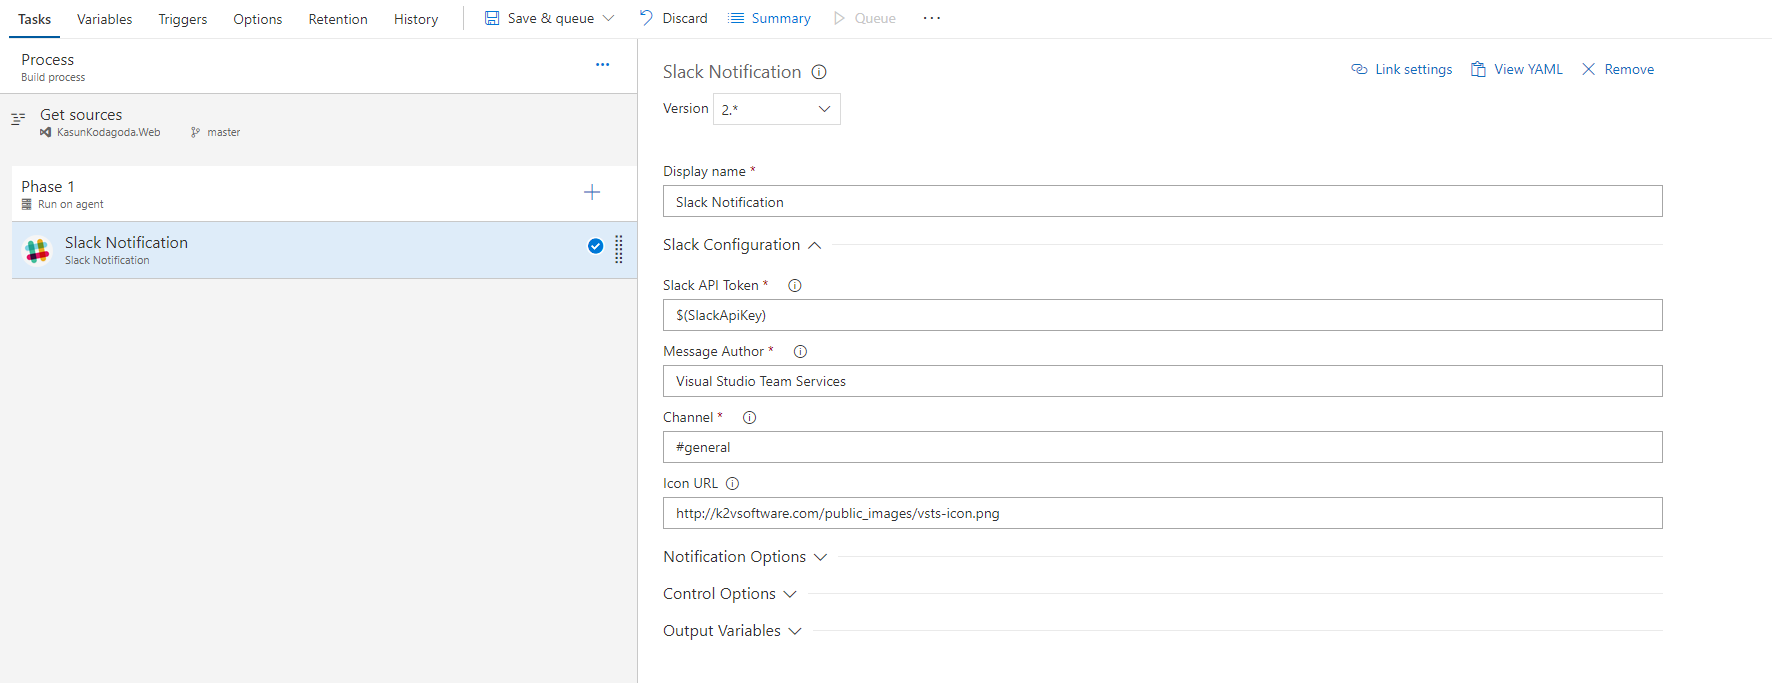
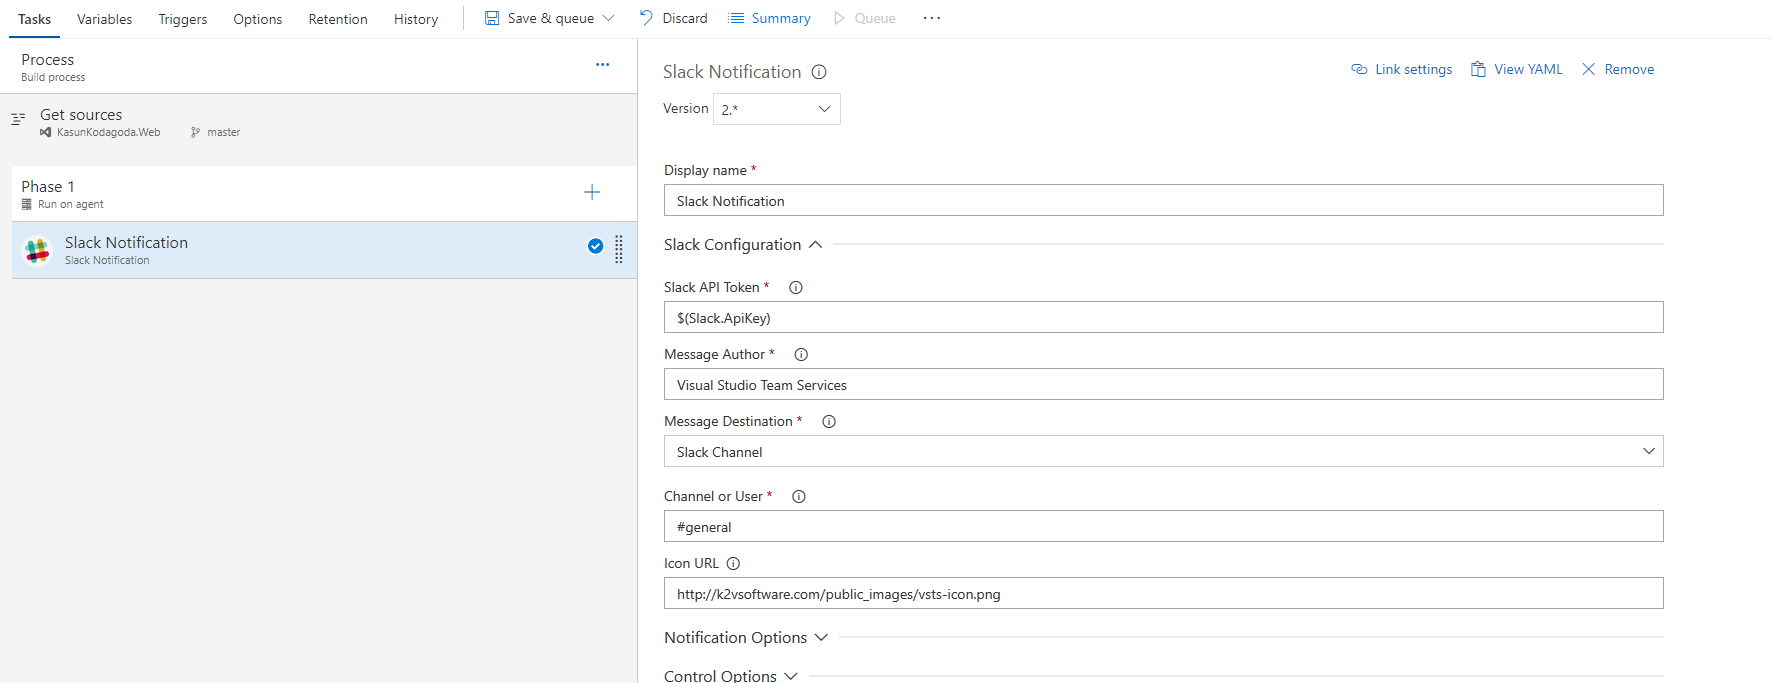
Updated the README.md, overview.md and the screenshots. Added a better description to the task.json

diff --git a/README.md b/README.md
@@ -25,7 +25,8 @@ Send Slack Notification section contains some required configuration options.
 ### Required Configuration
  
  * **Message Author**: Text shown as the author of the message in Slack.
- * **Channel**: Channel or the User where the message is sent to. E.g. _#general, @kasunk_
+ * **Destination**: Select the Destination for the Slack Message. To send a message/upload file to a *Channel*, select _Slack Channel_. To send a direct message/upload file to a *User*, select _Slack User_.
+ * **Channel or User**: Channel/User where the message is sent to. This value is tied to the *Destination* input option. If you selected _Slack Channel_ as the Destination, you can enter the slack channel name here. You can either add the channel name with *#* prefix or without the prefix. _(E.g. #general, general)_. If you selected _Slack User_ as the Destination, You need to enter the *Real Name* of the Slack User without any prefix. _(E.g. John Smith, Halc Lewis)_. The real name is *Case Sensitive* so make sure to type it correctly. _If the Channel Name or User's Real Name is invalid, the task will finish without sending any notifications_.
  * **Slack API Token**: Slack API Token generated from the [Slack Token Generator](https://api.slack.com/custom-integrations/legacy-tokens). Save the token in a secure build variable.
  * **Icon URL**: _(Optional)_ The icon that will be shown along side the message.
 

diff --git a/overview.md b/overview.md
@@ -22,7 +22,8 @@ Send Slack Notification section contains some required configuration options.
 ### Required Configuration
  
  * **Message Author**: Text shown as the author of the message in Slack.
- * **Channel**: Channel or the User where the message is sent to. E.g. _#general, @kasunk_
+ * **Destination**: Select the Destination for the Slack Message. To send a message/upload file to a *Channel*, select _Slack Channel_. To send a direct message/upload file to a *User*, select _Slack User_.
+ * **Channel or User**: Channel/User where the message is sent to. This value is tied to the *Destination* input option. If you selected _Slack Channel_ as the Destination, you can enter the slack channel name here. You can either add the channel name with *#* prefix or without the prefix. _(E.g. #general, general)_. If you selected _Slack User_ as the Destination, You need to enter the *Real Name* of the Slack User without any prefix. _(E.g. John Smith, Halc Lewis)_. The real name is *Case Sensitive* so make sure to type it correctly. _If the Channel Name or User's Real Name is invalid, the task will finish without sending any notifications_.
  * **Slack API Token**: Slack API Token generated from the [Slack Token Generator](https://api.slack.com/custom-integrations/legacy-tokens). Save the token in a secure build variable.
  * **Icon URL**: _(Optional)_ The icon that will be shown along side the message.
 
